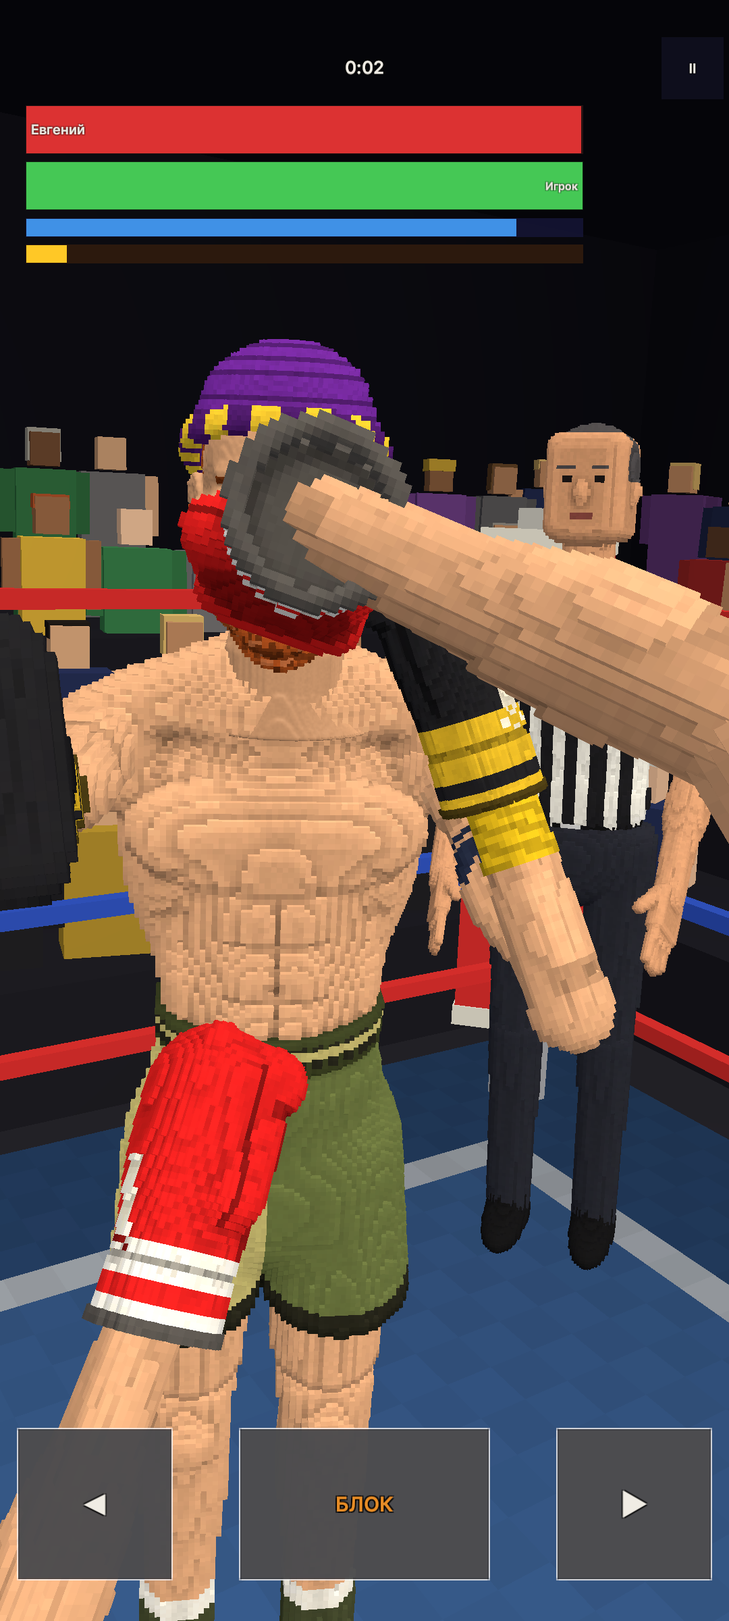
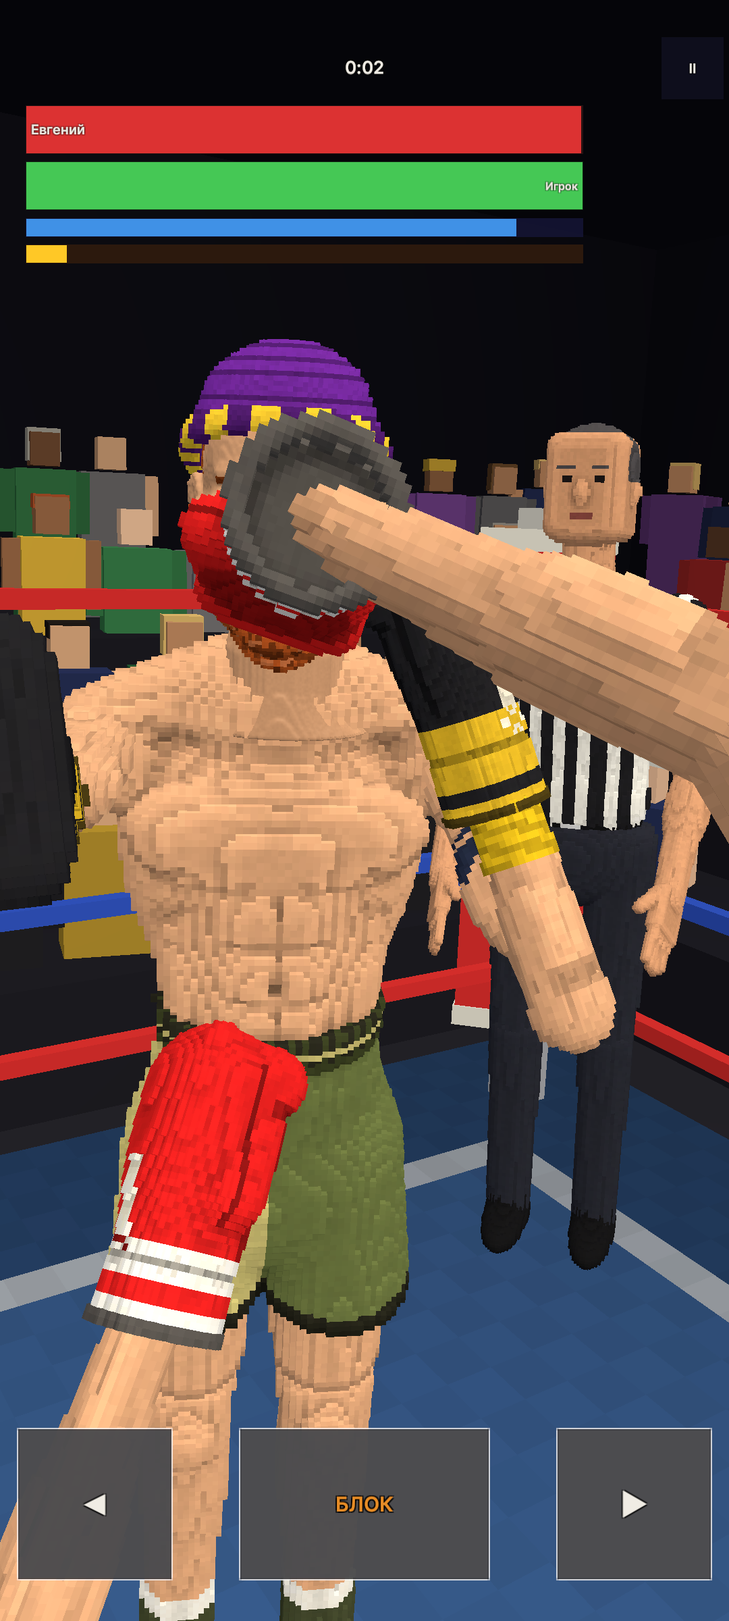
Руки: рельеф мышц (дельта, бицепс, трицепс, плечелучевая, разгибатели и сгибатели) с силой от armMult; торс и толщина рук игрока как на main; кадры flex/back; отчёт «Доработка 2»

diff --git a/Unity/Assets/Game/Runtime/Presentation/BoxerParts.cs b/Unity/Assets/Game/Runtime/Presentation/BoxerParts.cs
@@ -33,21 +33,35 @@ namespace VoxGame
 
         // ---- Формы ----------------------------------------------------------------------------
 
+        // Рельеф мышц: борозды заданы глубиной (см, внутрь поверхности), rel — сила рельефа бойца (FoeBody: от armMult,
+        // у худого слабее). Те же функции дают тень в бороздах при раскраске. Шаг руки 0,65 см: борозда 0,65–1,0 см =
+        // 1–1,5 вокселя.
+        const float DeltGroove = 0.85f, ArmSideGroove = 0.7f, ForeDorsGroove = 0.65f, ForeVolGroove = 0.4f;
+
+        // Плечо: борозда дельта|бицепс (спереди и с боков, сзади дельта переходит в трицепс) и боковые борозды бицепс|трицепс.
+        static float UpperGroove(float x, float y, float z) =>
+            DeltGroove * Bump(y, 9.2f, 1.0f) * Mathf.Clamp01((z + 2f) / 3f)
+          + ArmSideGroove * Bump(z, 0.1f, 0.9f) * Bump(y, 18.5f, 7f) * Mathf.Clamp01(Mathf.Abs(x) / 2f - 0.8f);
+
+        // Предплечье: тыльная борозда по локтевой кости (разгибатели | сгибатели) и неглубокая ладонная.
+        static float ForeGroove(float x, float y, float z) =>
+            ForeDorsGroove * Bump(x, -0.5f, 0.75f) * Bump(y, 12f, 9f) * Mathf.Clamp01(z / 1.5f)
+          + ForeVolGroove * Bump(x, 0.6f, 0.7f) * Bump(y, 12f, 8f) * Mathf.Clamp01(-z / 1.5f);
+
         // Плечо: начало в плечевом суставе, ось +Y к локтю.
         // +Z — бицепс (к подсказке back), −Z — трицепс и локтевой отросток.
-        public static float UpperArm(float x, float y, float z)
+        public static float UpperArm(float x, float y, float z, float rel = 1f)
         {
             float d = VoxModel.Cap(x, y, z, 0, 0, 0, 0, 29, 0, 4.4f, 3.5f);
-            d = VoxModel.Smin(d, VoxModel.Ell(x, y - 4.0f, z, 5.0f, 6.6f, 4.9f), 1.6f);                // дельта — шапка плеча
-            d = VoxModel.Smin(d, VoxModel.Ell(x, y - 16.5f, z + 1.6f, 3.8f, 7.2f, 3.9f), 1.1f);        // бицепс
-            d = VoxModel.Smin(d, VoxModel.Ell(x, y - 13.5f, z - 1.8f, 4.0f, 8.2f, 3.7f), 1.1f);        // трицепс
+            d = VoxModel.Smin(d, VoxModel.Ell(x, y - 4.0f, z, 4.6f, 6.6f, 4.9f), 1.4f);                // дельта — шапка плеча
+            d = VoxModel.Smin(d, VoxModel.Ell(x, y - 16.5f, z + 1.6f, 3.8f, 7.2f, 3.9f), 0.9f);        // бицепс
+            d = VoxModel.Smin(d, VoxModel.Ell(x, y - 13.5f, z - 1.8f, 4.0f, 8.2f, 3.7f), 0.9f);        // трицепс
             d = VoxModel.Smin(d, VoxModel.Ell(x, y - 29.0f, z - 2.0f, 2.1f, 2.4f, 1.7f), 1.0f);        // локтевой отросток
             d = VoxModel.Smin(d, VoxModel.Ell(Mathf.Abs(x) - 3.0f, y - 28.3f, z, 1.3f, 1.6f, 1.4f), 0.9f);   // надмыщелки
-            d += 0.30f * Bump(y, 8.6f, 1.3f) * Bump(z, 0f, 4f);                                    // борозда под дельтой
-            return d;
+            return d + rel * UpperGroove(x, y, z);
         }
 
-        public static byte UpperArmPaint(float x, float y, float z, bool band)
+        public static byte UpperArmPaint(float x, float y, float z, bool band, float rel = 1f)
         {
             if (band)
             {
@@ -57,30 +71,33 @@ namespace VoxGame
                 if (y > 11.6f && y < 13.4f + 1.9f * tooth) return 2;
                 if (y > 9.8f && y < 10.7f) return 2;
             }
-            if (Mathf.Abs(y - 8.6f) < 0.9f || (y > 25.5f && y < 27.2f && z > 0.5f)) return AShade;  // борозда под дельтой, локтевой сгиб
-            if (y > 13f && y < 20f && z > 2.6f) return ALight;                                           // верх бицепса
-            if (y < 5f && Mathf.Abs(x) < 3f && z * z + x * x > 16f) return ALight;                       // шапка дельты
+            if (rel * UpperGroove(x, y, z) > 0.3f || (y > 25.5f && y < 27.2f && z > 0.5f)) return AShade;  // борозды, локтевой сгиб
+            if (y > 13f && y < 21f && z > 2.4f && Mathf.Abs(x) < 2.6f) return ALight;                    // верх бицепса
+            if (y > 10f && y < 19f && z < -2.6f && Mathf.Abs(x) < 2.4f) return ALight;                   // верх трицепса
+            if (y < 6f && z > -1f && x * x + z * z > 14f) return ALight;                                  // шапка дельты
             return ASkin;
         }
 
         // Предплечье: начало в локте, ось +Y к запястью.
-        // +Z — тыльная сторона (разгибатели), −Z — сгибатели; запястье уплощено.
-        public static float ForeArm(float x, float y, float z)
+        // +Z — тыльная сторона (разгибатели), −Z — сгибатели; +X — лучевая сторона (плечелучевая у локтя); запястье уплощено.
+        public static float ForeArm(float x, float y, float z, float rel = 1f)
         {
             float d = VoxModel.Cap(x, y, z, 0, 0, 0, 0, 27, 0, 4.0f, 2.6f);
-            d = VoxModel.Smin(d, VoxModel.Ell(x - 1.0f, y - 7.5f, z - 0.9f, 3.5f, 7.5f, 3.0f), 1.3f);   // плечелучевая и разгибатели
-            d = VoxModel.Smin(d, VoxModel.Ell(x + 0.9f, y - 8.5f, z + 1.0f, 3.3f, 8.0f, 3.0f), 1.3f);   // сгибатели
+            d = VoxModel.Smin(d, VoxModel.Ell(x - 1.0f, y - 8.0f, z - 0.9f, 3.3f, 7.5f, 3.0f), 1.0f);   // разгибатели
+            d = VoxModel.Smin(d, VoxModel.Ell(x + 0.9f, y - 8.5f, z + 1.0f, 3.3f, 8.0f, 3.0f), 1.0f);   // сгибатели
+            d = VoxModel.Smin(d, VoxModel.Ell(x - 2.0f, y - 4.5f, z - 0.3f, 1.8f, 5.5f, 2.0f), 0.8f);   // плечелучевая у локтя
             d = VoxModel.Smin(d, VoxModel.Ell(x, y - 25.8f, z, 3.1f, 2.2f, 2.2f), 1.0f);               // запястье
             d = VoxModel.Smin(d, VoxModel.Ell(x, y + 0.6f, z + 2.2f, 1.9f, 2.0f, 1.5f), 0.9f);          // локтевой отросток
             d += 0.28f * Bump(y, 3.0f, 1.1f) * Mathf.Clamp01(z / 2f);                                // локтевой сгиб
-            d += 0.18f * Bump(x, -0.4f, 0.8f) * Bump(y, 15f, 9f) * Mathf.Clamp01(-z / 2f);              // борозда по локтевой кости
-            return d;
+            return d + rel * ForeGroove(x, y, z);
         }
 
-        public static byte ForeArmPaint(float x, float y, float z)
+        public static byte ForeArmPaint(float x, float y, float z, float rel = 1f)
         {
-            if ((y > 2f && y < 4.2f && z > 0.8f) || (Mathf.Abs(x + 0.4f) < 0.7f && y > 9f && y < 21f && z < -1.5f)) return AShade;
-            if (y > 3.5f && y < 13f && x > 1.2f && z > 1.0f) return ALight;                            // верх плечелучевой
+            if (rel * ForeGroove(x, y, z) > 0.25f || (y > 2f && y < 4.2f && z > 0.8f)) return AShade;   // борозды, локтевой сгиб
+            if (y > 3f && y < 12f && x > 1.4f && z > 0.4f) return ALight;                              // плечелучевая
+            if (y > 4f && y < 16f && x < -0.8f && z < -1.4f) return ALight;                            // сгибатели
+            if (x < -1.2f && x > -2.0f && z > 1.2f && y > 6f && y < 24f) return ALight;                // гребень локтевой кости
             if (y > 24.6f && Mathf.Abs(z) < 1.2f && Mathf.Abs(x) > 2.4f) return AShade;              // складка запястья
             return ASkin;
         }
@@ -91,7 +108,7 @@ namespace VoxGame
         {
             x /= k * kx; y /= k; z /= k;
             float d = Fist(x, y, z, thumb);
-            d = VoxModel.Smin(d, CuffShape(x, y, z, -15.2f, 4.7f, 4.9f), 2.2f);
+            d = VoxModel.Smin(d, CuffShape(x, y, z, -16.2f, 4.7f, 4.9f), 2.2f);
             if (studs)
                 for (int i = 0; i < 4; i++)
                     d = Mathf.Min(d, VoxModel.Ell(x - (-4.2f + 2.8f * i), y - 2.6f, z - 7.6f, 1.1f, 1.1f, 1.5f));
@@ -152,7 +169,7 @@ namespace VoxGame
         static byte GlovePaint(float x, float y, float z, float k, float kx, bool studs, int thumb)
         {
             x /= k * kx; y /= k; z /= k;
-            if (z < -6.8f) return CuffDetail(GCuff, GCuff, x, y, z, -15.2f, 4.9f, GEdge, GFold, GMain, GLace);   // манжета
+            if (z < -6.8f) return CuffDetail(GCuff, GCuff, x, y, z, -16.2f, 4.9f, GEdge, GFold, GMain, GLace);   // манжета
             if (Mathf.Abs(y + 0.7f) < 0.33f && Mathf.Abs(x) > 4.6f && z < 6.5f) return GSeam;           // боковой шов
             if (Mathf.Abs(x - thumb * 3.0f) < 0.35f && y < -0.6f && z > -2.5f && z < 4.8f) return GSeam;  // шов у большого пальца
             if (studs && z > 7.2f && y > 1.2f && y < 4.2f) {               // шипы на костяшках
@@ -168,31 +185,31 @@ namespace VoxGame
         // ---- Сетки ----------------------------------------------------------------------------
 
         // Плечо. thick — толщина (поперёк оси руки), band — татуировка-браслет с зубцами.
-        public static Mesh UpperArmMesh(Color32 skin, float thick = 1f, bool band = false)
+        public static Mesh UpperArmMesh(Color32 skin, float thick = 1f, bool band = false, float rel = 1f)
         {
             float k = Mathf.Max(0.5f, thick);
             var mn = new Vector3(-6.4f * k, -5.6f, -6.4f * k); var mx = new Vector3(6.4f * k, 34.4f, 6.4f * k);
             var m = VoxModel.FromSdf(mn, mx, ArmCell,
-                (x, y, z) => UpperArm(x / k, y, z / k) * Mathf.Min(1f, k),
-                (x, y, z) => UpperArmPaint(x / k, y, z / k, band), true);
+                (x, y, z) => UpperArm(x / k, y, z / k, rel) * Mathf.Min(1f, k),
+                (x, y, z) => UpperArmPaint(x / k, y, z / k, band, rel), true);
             return m.BuildMesh("upperArm", new[] { default, skin, Ink, default, Tone(skin, ShadeK), Tone(skin, LightK) },
                                mn * 0.01f, ArmCell * 0.01f);
         }
 
         // Предплечье. thick — толщина, wraps — бинты у запястья (видны между локтем и манжетой перчатки).
-        public static Mesh ForeArmMesh(Color32 skin, float thick = 1f, bool wraps = false, Color32 wrapColor = default)
+        public static Mesh ForeArmMesh(Color32 skin, float thick = 1f, bool wraps = false, Color32 wrapColor = default, float rel = 1f)
         {
             float k = Mathf.Max(0.5f, thick);
             var mn = new Vector3(-5.6f * k, -4.8f, -5.6f * k); var mx = new Vector3(5.6f * k, 30.4f, 5.6f * k);
             var m = VoxModel.FromSdf(mn, mx, ArmCell,
                 (x, y, z) =>
                 {
-                    float d = ForeArm(x / k, y, z / k) * Mathf.Min(1f, k);
+                    float d = ForeArm(x / k, y, z / k, rel) * Mathf.Min(1f, k);
                     return wraps && y > 14.2f ? d - 0.35f : d;   // бинт чуть толще кожи
                 },
                 (x, y, z) =>
                 {
-                    if (!wraps || y < 14.2f) return ForeArmPaint(x / k, y, z / k);
+                    if (!wraps || y < 14.2f) return ForeArmPaint(x / k, y, z / k, rel);
                     // витки бинта наискось: два тона
                     float a = Mathf.Atan2(z, x) / Mathf.PI;
                     return Mathf.Repeat(y * 0.55f + a, 1f) < 0.5f ? (byte)2 : (byte)3;

diff --git a/Unity/Assets/Game/Editor/ArmsBodyShots.cs b/Unity/Assets/Game/Editor/ArmsBodyShots.cs
@@ -193,6 +193,13 @@ namespace VoxGame.Editor
             Vector3 e = el.position;
             CamShot(cam, e + fr.right * 0.75f + fr.forward * 0.25f + fr.up * 0.02f, e + fr.up * 0.02f, 40f, BPW, BPH,
                     Path.Combine(dir, prefix + "foe-arm.png"));
+            // согнутая рука спереди-снаружи (бицепс, дельта, предплечье) и сзади (трицепс, локоть)
+            var up = FindDeep(fr, "upperArm0").position;
+            Vector3 mid = (up + e) * 0.5f;
+            CamShot(cam, mid + fr.forward * 0.55f + fr.right * 0.45f + fr.up * 0.05f, mid, 38f, BPW, BPH,
+                    Path.Combine(dir, prefix + "foe-arm-flex.png"));
+            CamShot(cam, mid - fr.forward * 0.65f + fr.right * 0.40f + fr.up * 0.10f, mid, 38f, BPW, BPH,
+                    Path.Combine(dir, prefix + "foe-arm-back.png"));
             d.Gloves.SetVisible(true);
         }
 
@@ -241,6 +248,43 @@ namespace VoxGame.Editor
             Debug.Log(ArmsLog);
             File.WriteAllText(Path.GetFullPath(Path.Combine(Application.dataPath, "..", "Logs", "arms-buildprof.txt")), ArmsLog);
         }
+
+        // Обхват звеньев руки соперника (по функции формы, шаг 0,05 см): площадь сечения поперёк оси через каждые 0,5 см,
+        // наибольшая → равновеликий обхват 2√(πA); и габариты сеток рук (соперник и игрок, перчатка «классика»).
+        public static void ArmsGirth(string tag)
+        {
+            var sb = new StringBuilder();
+            foreach (var (name, len) in new[] { ("upper", 29f), ("fore", 27f) })
+            {
+                float best = 0f, by = 0f;
+                for (float y = 0.5f; y < len; y += 0.5f)
+                {
+                    int n = 0;
+                    for (float x = -7f; x < 7f; x += 0.05f)
+                    for (float z = -7f; z < 7f; z += 0.05f)
+                        if ((name == "upper" ? BoxerParts.UpperArm(x, y, z) : BoxerParts.ForeArm(x, y, z)) < 0f) n++;
+                    float a = n * 0.0025f;
+                    if (a > best) { best = a; by = y; }
+                }
+                sb.Append("ARMS_GIRTH " + name + " max=" + F(2f * Mathf.Sqrt(Mathf.PI * best)) + "cm at y=" + F(by) + "\n");
+            }
+            var look = GloveLooks.Get("classic");
+            var ms = new[]
+            {
+                ("foeUpper", BoxerParts.UpperArmMesh(new Color32(200, 150, 120, 255))), ("foeFore", BoxerParts.ForeArmMesh(new Color32(200, 150, 120, 255))),
+                ("foeGlove", BoxerParts.GloveMesh(-1, Color.red, Color.white)), ("playerUpper", GloveLooks.BuildUpperArmMesh()),
+                ("playerFore", GloveLooks.BuildForeArmMesh(look)), ("playerGlove", GloveLooks.BuildGloveMesh(look, 1)),
+            };
+            foreach (var (n, m) in ms)
+            {
+                var b = m.bounds;
+                sb.Append("ARMS_BOUNDS " + n + " size=" + V3(b.size) + " center=" + V3(b.center) + "\n");
+                Object.DestroyImmediate(m);
+            }
+            ArmsLog = sb.ToString();
+            File.WriteAllText(Path.GetFullPath(Path.Combine(Application.dataPath, "..", "Logs", "arms-girth-" + tag + ".txt")), ArmsLog);
+        }
+        public static void ArmsGirthNow() => ArmsGirth(System.Environment.GetEnvironmentVariable("ARMS_TAG") ?? "x");
 
         public static void ArmsBench(string tag)
         {

diff --git a/Unity/Assets/Game/Runtime/Presentation/GloveLooks.cs b/Unity/Assets/Game/Runtime/Presentation/GloveLooks.cs
@@ -112,9 +112,9 @@ namespace VoxGame
 
         // Предплечье игрока: запястье в начале координат, локоть на −ForeLenCm по Y. Форма — предплечье соперника
         // (BoxerParts.ForeArm: сужение к запястью, разгибатели и сгибатели, локтевой отросток и сгиб), по длине до ForeLenCm,
-        // по толщине ×ForeK (запястье 2.8, у локтя 4.3 см, как было). +Z — тыльная сторона. Тон вокселями: свет и тень.
+        // по толщине ×ForeK (габариты как до правки рук). +Z — тыльная сторона. Тон вокселями: свет и тень.
         // У бинтов предплечье замотано от запястья.
-        const float ForeK = 1.08f;
+        const float ForeK = 1.0f;
         static float ForeY(float y) => BoxerParts.ForeLen * 100f + y * (BoxerParts.ForeLen * 100f / ForeLenCm);
 
         public static Mesh BuildForeArmMesh(GloveLook look)
@@ -142,8 +142,8 @@ namespace VoxGame
         }
 
         // Плечо игрока: локоть в начале координат, плечевой сустав на −UpperLenCm по Y. Одно на все виды перчаток.
-        // Форма — плечо соперника (дельта, бицепс, трицепс, локоть), по длине до UpperLenCm, по толщине ×UpperK.
-        const float UpperK = 1.1f;
+        // Форма — плечо соперника (дельта, бицепс, трицепс, локоть), по длине до UpperLenCm, по толщине ×UpperK (габариты как до правки рук).
+        const float UpperK = 1.0f;
         static float UpperY(float y) => BoxerParts.UpperLen * 100f + y * (BoxerParts.UpperLen * 100f / UpperLenCm);
 
         public static Mesh BuildUpperArmMesh()

diff --git a/Unity/Assets/Game/Runtime/Presentation/FoeBody.cs b/Unity/Assets/Game/Runtime/Presentation/FoeBody.cs
@@ -20,7 +20,7 @@ namespace VoxGame
         const float HeadZ   = 0.02f;
         const float NeckLen = 0.1995f; // от начала координат головы до низа её шеи
         const float ShoulderX = 0.195f, ShoulderY = 0.415f;
-        const float TorsoCell = 0.57f; // см (до ARMS-BODY.md 0.7)
+        const float TorsoCell = 0.7f;  // см (0.57 давал расхождение габаритов до 3 %, ARMS-BODY.md, доработка 2)
         const float LegsCell  = 0.7f;  // см, голени и боксёрки
         const float StretchFrom = 10f; // см от пояса: выше корпус растягивается по длине (torsoLen), трусы — нет
 
@@ -134,9 +134,11 @@ namespace VoxGame
 
             // татуировка-браслет — только на одном плече (рука 0 — сторона +X)
             int bandArm = mark == BodyMark.ArmBand ? (markSide > 0f ? 0 : 1) : -1;
-            var upperPlain = BoxerParts.UpperArmMesh(skin, armK);
-            var upperBand  = bandArm >= 0 ? BoxerParts.UpperArmMesh(skin, armK, true) : null;
-            var foreMesh   = BoxerParts.ForeArmMesh(skin, Mathf.Lerp(1f, armK, 0.8f), def.colors.handWraps, def.colors.wraps);
+            // рельеф мышц рук по телосложению: у худого (armMult мал) слабее, у мощного сильнее
+            float rel = Mathf.Lerp(0.6f, 1.2f, Mathf.InverseLerp(0.88f, 1.22f, armK));
+            var upperPlain = BoxerParts.UpperArmMesh(skin, armK, false, rel);
+            var upperBand  = bandArm >= 0 ? BoxerParts.UpperArmMesh(skin, armK, true, rel) : null;
+            var foreMesh   = BoxerParts.ForeArmMesh(skin, Mathf.Lerp(1f, armK, 0.8f), def.colors.handWraps, def.colors.wraps, rel);
             var gloveMeshes = new[]
             {
                 BoxerParts.GloveMesh(-1, def.colors.gloveA, def.colors.gloveB),

diff --git a/Unity/Assets/Game/Tests/ArmsBodyTests.cs b/Unity/Assets/Game/Tests/ArmsBodyTests.cs
@@ -89,8 +89,6 @@ namespace VoxGame.Tests
         }
 
         // Допуск 1 %: точка — 1 % её значения (не меньше 0,5 мм), доля экрана — 0,01, центр габарита — 1 % размера по той же оси.
-        const float TorsoQuant = (0.007f + 0.0057f) * 0.5f * 2f;   // м: по полклетки старого и нового шага с двух сторон
-
         [Test]
         public void LayoutUnchanged()
         {
@@ -108,10 +106,6 @@ namespace VoxGame.Tests
                 if (kv.Key.EndsWith(".vx") || kv.Key.EndsWith(".vy")) tol = 0.01f;
                 else if (kv.Key.Contains(".center.")) tol = 0.01f * bl[kv.Key.Replace(".center.", ".size.")];
                 else tol = Mathf.Max(0.0005f, 0.01f * Mathf.Abs(b));
-                // Торс теперь в клетках 0,57 см вместо 0,7: край сетки сдвигается до полклетки старого и нового шага
-                // с каждой стороны (квантование, не форма). Проверено: при шаге 0,7 и новых формах все габариты в 1 %.
-                if (kv.Key.Contains(".torso.size.")) tol = Mathf.Max(tol, TorsoQuant);
-                if (kv.Key.Contains(".torso.center.")) tol = Mathf.Max(tol, TorsoQuant * 0.5f);
                 if (Mathf.Abs(a - b) > tol) { bad.AppendLine(kv.Key + " было " + b + " стало " + a); n++; }
             }
             Assert.AreEqual(0, n, bad.ToString());

diff --git a/Unity/ARMS-BODY.md b/Unity/ARMS-BODY.md
@@ -116,3 +116,67 @@
 - Отрисовка мерилась в редакторе на ПК (RTX 4060). На телефоне не проверял, сборки плеера не было (по заданию).
 - Тесты анатомии с `-nographics` дают 63/2 (B10, тесты отрисовки). С графикой — 65/0. На `main` с `-nographics` не сверял.
 - Нокдаун, победа и блок отдельно не снимались. Поза в них та же, сетки те же.
+
+## Доработка 2: рельеф мышц рук, габариты как на `main`
+
+26.11.2026, та же ветка. Задача: немного мышечного рельефа на руках соперника и на видимом предплечье игрока, без гипертрофии и без смены размеров; расхождение габаритов торса убрать.
+
+### Что изменено
+
+- `BoxerParts.cs`: плечо — дельта отдельным объёмом, бицепс и трицепс двумя объёмами (`Smin` 0,9). Борозда дельта|бицепс 0,85 см, боковые борозды бицепс|трицепс 0,7 см. Предплечье — разгибатели и сгибатели двумя объёмами, плечелучевая у локтя, сужение к запястью (радиус 4,0 → 2,6), тыльная борозда по локтевой кости 0,65 см, ладонная 0,4 см. Тон: тень в бороздах, свет на верхах бицепса, трицепса, дельты, на плечелучевой, сгибателях и гребне локтевой кости. Длина манжеты перчатки соперника возвращена к `main` (конец −15,2 → −16,2).
+- Сила рельефа `rel` берётся из `armMult` (новый параметр не вводился): `rel = lerp(0,6; 1,2)` по `armMult` 0,88…1,22. У худого борозды мельче, у мощного глубже. У игрока `rel = 1`.
+- `GloveLooks.cs`: толщина плеча и предплечья игрока ×1,1 и ×1,08 → ×1,0, как на `main`.
+- `FoeBody.cs`: шаг торса 0,57 → 0,7 см (как на `main`). Детали торса из первой версии сохранены. Голени тоже на 0,7.
+- `Tests/ArmsBodyTests.cs`: допуск по габаритам торса снова строгий, 1 %.
+- `Editor/ArmsBodyShots.cs`: `ArmsGirth` (обхват и габариты сеток рук), кадры `foe-arm-flex` и `foe-arm-back`.
+
+### До / после
+
+| Что | `main` | v1 (`319ed81`) | v2 | Критерий |
+|---|---|---|---|---|
+| обхват плеча, max | 32,68 см | 31,94 | 30,81 (−3,5 % к v1) | ≤ 6 % — да |
+| обхват предплечья, max | 27,21 | 26,19 | 25,50 (−2,6 % к v1) | ≤ 6 % — да |
+| глубина борозд | — | ~0,5 см (одна) | дельта 0,51–1,02 см, бок 0,42–0,84, предплечье 0,65 и 0,4 (шаг 0,65 см: 0,6–1,6 вокселя) | 1–2 вокселя — да |
+| треугольники кадра | 465 408 | 530 296 | **503 076 (+8,1 %)** | ≤ +35 % — да |
+| рука игрока / соперника | 17 988 / 16 172 | 28 688 / 25 364 | 27 148 / 25 628 | — |
+| торс | 48 308 | 73 084 | 48 416 | — |
+| габариты торса и ног (12 бойцов) | — | до 3,1 % | в 1 % (`LayoutUnchanged`, строго) | да |
+| суставы, перчатки, точки удара, проекция | — | в 1 % | в 1 % | да |
+
+Габариты сеток рук (м, x / y / z):
+
+| Сетка | `main` | v2 |
+|---|---|---|
+| плечо соперника | 0,096 / 0,376 / 0,112 | 0,0975 / 0,3705 / 0,1105 |
+| предплечье соперника | 0,088 / 0,336 / 0,088 | 0,0845 / 0,338 / 0,0845 |
+| перчатка соперника | 0,143 / 0,1155 / 0,264 | 0,144 / 0,117 / 0,2565 |
+| плечо игрока | 0,096 / 0,496 / 0,104 | 0,0975 / 0,494 / 0,1105 |
+| предплечье игрока | 0,088 / 0,368 / 0,088 | 0,0845 / 0,3705 / 0,078 |
+| перчатка игрока | 0,143 / 0,1155 / 0,2255 | 0,144 / 0,117 / 0,2205 |
+
+Ширина сеток рук расходится с `main` на 1–4 %, глубина предплечья игрока на −11 % (7,8 против 8,8 см). Это квантование: шаг 0,65 см против прежних 0,8, одна клетка — 7–8 % ширины руки, поэтому 1 % для сеток рук недостижим без возврата к шагу 0,8. На попадания это не влияет: у рук и торса нет коллайдеров, удар ищет голову лучом (`AnatView.Pick`), а точки удара, суставы и проекция совпадают с `main` в 1 %.
+
+### Мышцы и где видны
+
+| Мышца | Снимок |
+|---|---|
+| дельта (шапка плеча, борозда под ней) | `foe-torso.png` (плечи по бокам), `foe-arm-flex.png` вверху слева |
+| бицепс и трицепс двумя объёмами | `foe-arm-flex.png`, `foe-arm-back.png` (трицепс и локоть сзади) |
+| плечелучевая у локтя | `foe-arm.png`, `foe-arm-flex.png` |
+| разгибатели и сгибатели с бороздой, сужение к запястью | `foe-arm.png`, `foe-arm-flex.png` — видно лучше всего |
+| два объёма предплечья игрока, гребень локтевой кости | `player-glove.png` (предплечья вверху и справа) |
+
+Старые кадры для сравнения: `v1-foe-arm.png`, `v1-player-glove.png`.
+
+### Тесты и время
+
+- `VoxGame.Tests` 233/0, анатомия (с графикой) 65/0, `ArmsBodyTests` 3/0.
+- Сид 77 без изменений: 78 ударов, 147 880 / 149 586 / 157 850 / 156 238 / 51 928, куски 75 212.
+- Время, A/B формами `main` (`adba7a5`) и v2, 6 кругов с чередованием порядка, по 2 боя × 40 ударов, медиана 12 прогонов: кадр удара 26,3 → 28,0 мс (+6,5 %), кадр боя 2,66 → 2,80 мс (+5,1 %). Критерий «не хуже 10 %» — да. Сборка соперника 1 416 → 776 мс (параллельное заполнение).
+- Белое на манжете в пике джеба 0,0 %.
+
+### Что не вышло
+
+- Габариты сеток рук в 1 % от `main` — нет (до −11 % у глубины предплечья игрока), причина — шаг решётки, на попадания не влияет (см. выше).
+- Рельеф плеча на кадрах боя мелкий: на расстоянии бой виден в основном тоном, формой — только на крупных планах. Глубже делать не стал: «немного» и ≤ 2 вокселей.
+- Предплечье игрока в стойке смотрит на камеру тыльной стороной, поэтому из двух объёмов на `player-glove.png` разгибатели видны лучше сгибателей.
